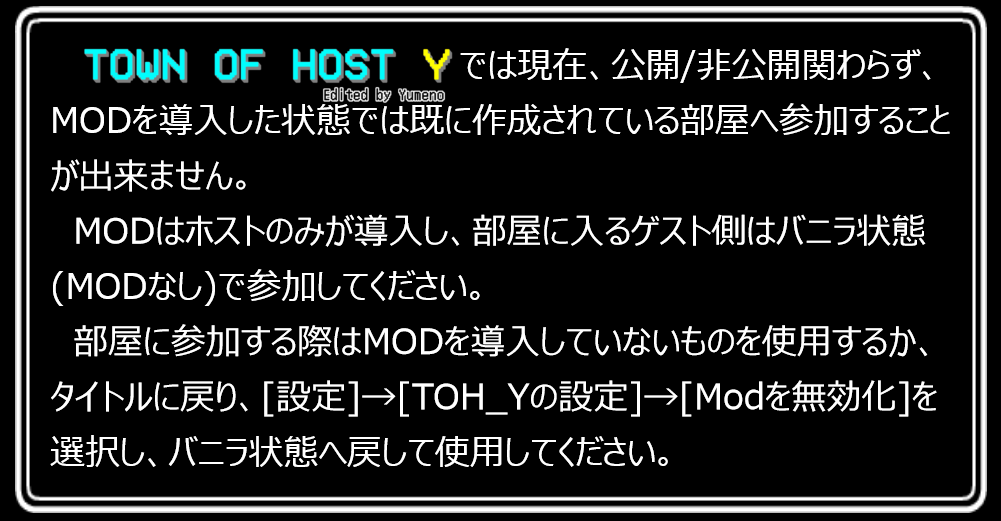
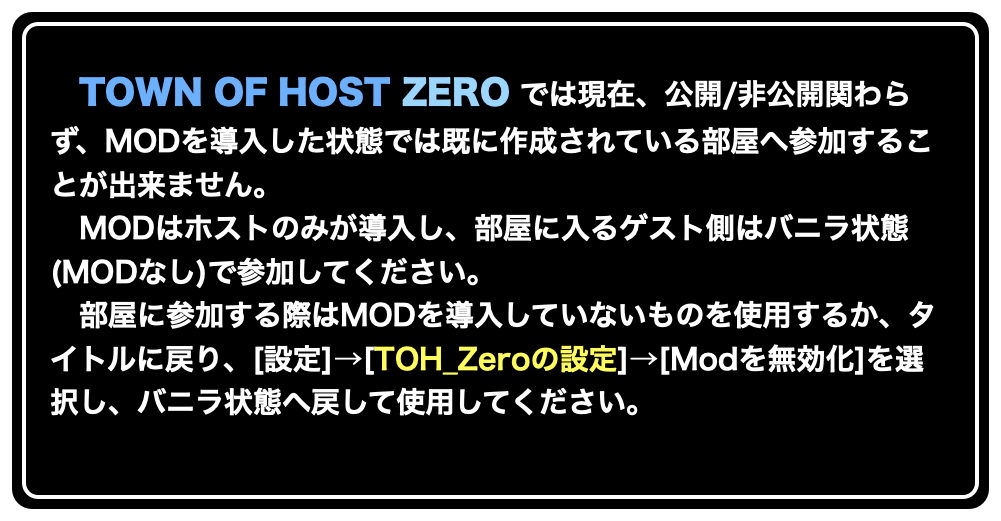
Remove remaining TOH_Y branding
- Drop old TOH_Y entries from modNews.json
- Redraw online warning image for TOH_Zero, remove unused Y news icon
- Replace TOH_Y-specific title screen messages
- Use TOHZ_DATA for save data, add "tohz" to name filter

diff --git a/Patches/CredentialsPatch.cs b/Patches/CredentialsPatch.cs
@@ -54,25 +54,21 @@ namespace TownOfHostY
         class VersionShowerStartPatch
         {
             static string[] mainManuText = {
-                "このコメントは21種類らしい\nなんか増えてる？",
-                "おかえり！\nこれからもたくさん遊んでね",
+                "ようこそ！\nたくさん遊んでいってね",
                 "【今日のおすすめ役職】\nアドミニスター",
                 "【今日のおすすめ属性】\nリヴェラー",
                 "ランダムな文が\n表示されるって\nなんかいいよね",
                 "今日もシェリフ？\nたまにはハンターで使ってみない？",
-                "おまたせ！久しぶりだね！",
-                "復旧にはお手伝いさんが\nめっちゃ頑張ってくれました",
-                                "マッドシェリフなどで自爆する時に\n相手が斬るように見える設定があります",
+                "マッドシェリフなどで自爆する時に\n相手が斬るように見える設定があります",
                 "属性を一つ足すだけで\n一気にゲームが変わります",
                 "ラストインポスターとか\nコンプリートクルーとかって\n使ってる？",
                 "パン屋はパン屋でも\nたまにご飯が好きになったりする",
-                "新しいニュートラル役職を\n考えたいんだけどな、、",
                 "道連れ表記は複数の場合、\nちゃんと複数発生と出ます",
                 "COして良い役職かどうか\nマークを表示させられます",
                 "ひいた役職の陣営がわからない？\n陣営表示機能を使ってね",
-                "シンクロカラーモードという\nカオスなモードがありました",
                 "ジャッカルサイドキックで\nご主人の想いを受け継ぎキルせよ。",
-                "一年も使えない期間があったけど\n元気にしてた？",
+                "不具合を見つけたら\nDiscordで教えてね",
+                "役職の詳しい説明は\nWIKIWIKIをチェック！",
                 "TOH_ZeroはTOH_Yを\nベースにしたMODです",
             };
 

diff --git a/Modules/BanManager.cs b/Modules/BanManager.cs
@@ -8,13 +8,13 @@ namespace TownOfHostY
 {
     public static class BanManager
     {
-        private static readonly string DENY_NAME_LIST_PATH = @"./TOHY_DATA/DenyName.txt";
-        private static readonly string BAN_LIST_PATH = @"./TOHY_DATA/BanList.txt";
+        private static readonly string DENY_NAME_LIST_PATH = @"./TOHZ_DATA/DenyName.txt";
+        private static readonly string BAN_LIST_PATH = @"./TOHZ_DATA/BanList.txt";
 
         [PluginModuleInitializer]
         public static void Init()
         {
-            Directory.CreateDirectory("TOHY_DATA");
+            Directory.CreateDirectory("TOHZ_DATA");
             if (!File.Exists(DENY_NAME_LIST_PATH)) File.Create(DENY_NAME_LIST_PATH).Close();
             if (!File.Exists(BAN_LIST_PATH)) File.Create(BAN_LIST_PATH).Close();
         }
@@ -37,6 +37,7 @@ namespace TownOfHostY
                 "mod",
                 "toh",
                 "tohy",
+                "tohz",
                 "モッド",
                 "もっど",
                 "勧誘",
@@ -57,7 +58,7 @@ namespace TownOfHostY
             if (!Options.ApplyDenyNameList.GetBool()) return;
             try
             {
-                Directory.CreateDirectory("TOHY_DATA");
+                Directory.CreateDirectory("TOHZ_DATA");
                 if (!File.Exists(DENY_NAME_LIST_PATH)) File.Create(DENY_NAME_LIST_PATH).Close();
                 using StreamReader sr = new(DENY_NAME_LIST_PATH);
                 string line;
@@ -94,7 +95,7 @@ namespace TownOfHostY
             if (player == null) return false;
             try
             {
-                Directory.CreateDirectory("TOHY_DATA");
+                Directory.CreateDirectory("TOHZ_DATA");
                 if (!File.Exists(BAN_LIST_PATH)) File.Create(BAN_LIST_PATH).Close();
                 using StreamReader sr = new(BAN_LIST_PATH);
                 string line;

diff --git a/Modules/TemplateManager.cs b/Modules/TemplateManager.cs
@@ -13,7 +13,7 @@ namespace TownOfHostY
 {
     public static class TemplateManager
     {
-        private static readonly string TEMPLATE_FILE_PATH = "./TOHY_DATA/template.txt";
+        private static readonly string TEMPLATE_FILE_PATH = "./TOHZ_DATA/template.txt";
         private static Dictionary<string, Func<string>> _replaceDictionary = new()
         {
             ["RoomCode"] = () => InnerNet.GameCode.IntToGameName(AmongUsClient.Instance.GameId),
@@ -48,7 +48,7 @@ namespace TownOfHostY
             {
                 try
                 {
-                    if (!Directory.Exists(@"TOHY_DATA")) Directory.CreateDirectory(@"TOHY_DATA");
+                    if (!Directory.Exists(@"TOHZ_DATA")) Directory.CreateDirectory(@"TOHZ_DATA");
                     if (File.Exists(@"./template.txt"))
                     {
                         File.Move(@"./template.txt", TEMPLATE_FILE_PATH);

diff --git a/Modules/VoiceReader.cs b/Modules/VoiceReader.cs
@@ -95,12 +95,12 @@ namespace TownOfHostY
             VoiceReaderCoral = StringOptionItem.Create(Id + 38, "VoiceReaderCoral", VoiceName.Values.ToArray(), 0, TabGroup.ModMainSettings, true).SetParent(VoiceReaderMode)
                 .SetGameMode(CustomGameMode.All);
         }
-        private static readonly string VOICE_LIST_PATH = @"./TOHY_DATA/VoiceList.txt";
+        private static readonly string VOICE_LIST_PATH = @"./TOHZ_DATA/VoiceList.txt";
         public static void LoadVoiceList()
         {
             try
             {
-                Directory.CreateDirectory("TOHY_DATA");
+                Directory.CreateDirectory("TOHZ_DATA");
                 if (!File.Exists(VOICE_LIST_PATH))
                 {
                     Logger.Info($"CreateListText", "LoadVoiceList");

diff --git a/Modules/OptionSaver.cs b/Modules/OptionSaver.cs
@@ -8,9 +8,9 @@ namespace TownOfHostY.Modules;
 
 public static class OptionSaver
 {
-    private static readonly DirectoryInfo SaveDataDirectoryInfo = new("./TOHY_DATA/SaveData/");
+    private static readonly DirectoryInfo SaveDataDirectoryInfo = new("./TOHZ_DATA/SaveData/");
     private static readonly DirectoryInfo PresetsDirectoryInfo = new($"{SaveDataDirectoryInfo.FullName}/Presets/");
-    private static readonly FileInfo OptionSaverFileInfo = new($"{SaveDataDirectoryInfo.FullName}/Options_TOHY.json");
+    private static readonly FileInfo OptionSaverFileInfo = new($"{SaveDataDirectoryInfo.FullName}/Options_TOHZ.json");
     private static readonly LogHandler logger = Logger.Handler(nameof(OptionSaver));
 
     public static void Initialize()

diff --git a/Modules/OptionSerializer.cs b/Modules/OptionSerializer.cs
@@ -12,7 +12,7 @@ public static class OptionSerializer
 {
     private static LogHandler logger = Logger.Handler(nameof(OptionSerializer));
     private const string Header = "%TOHOptions%", Footer = "%End%";
-    private static readonly DirectoryInfo exportDir = new("./TOHY_DATA/OptionOutputs");
+    private static readonly DirectoryInfo exportDir = new("./TOHZ_DATA/OptionOutputs");
     public static void SaveToClipboard()
     {
         GUIUtility.systemCopyBuffer = GenerateOptionsString();

diff --git a/Patches/GameStartManagerPatch.cs b/Patches/GameStartManagerPatch.cs
@@ -139,6 +139,7 @@ namespace TownOfHostY
                             "mod",
                             "toh",
                             "tohy",
+                            "tohz",
                             "モッド",
                             "もっど",
                             "勧誘",
